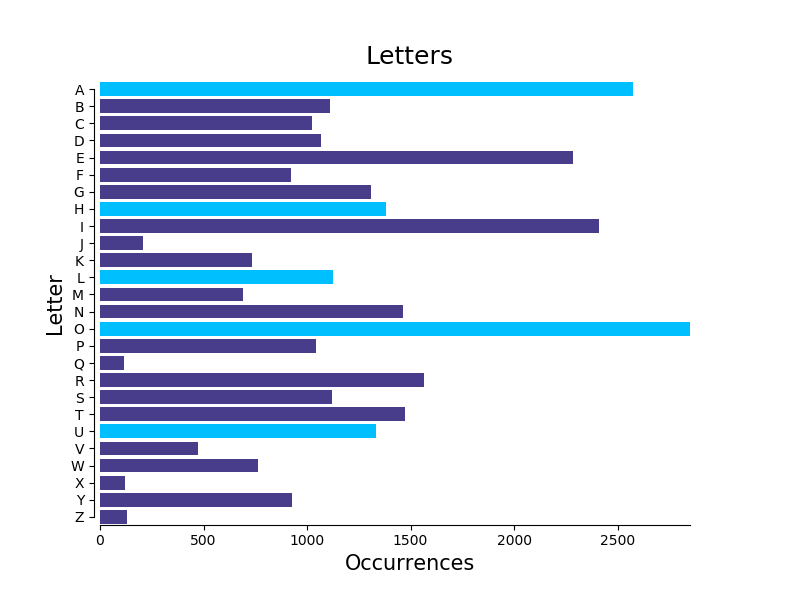
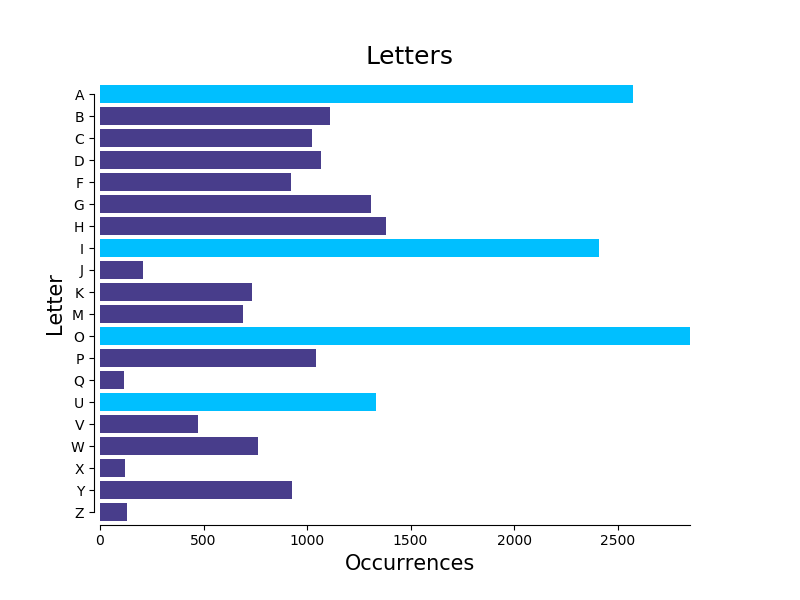
removed white spaces in graph file names and fixed coloring on Letters graph

Changed region(s): [[0.0938, 0.12, 0.875, 0.9]]

diff --git a/analysis.py b/analysis.py
@@ -3,6 +3,7 @@
 # TODO write functions to print categories and letters
 # TODO organize code
 # TODO comment
+# TODO remove spaces from image names
 
 
 import pandas
@@ -24,7 +25,7 @@ def guessed_letter_occurrence():
 
 def print_overall_letter_occurrence():
   puzzles = df['Puzzle']
-  alphabet = ['A', 'B', 'C', 'D', 'E', 'F', 'G', 'H', 'I', 'J', 'K', 'L', 'M', 'N', 'O', 'P', 'Q', 'R', 'S', 'T', 'U', 'V', 'W', 'X', 'Y', 'Z']
+  alphabet = ['A', 'B', 'C', 'D', 'F', 'G', 'H', 'I', 'J', 'K', 'M', 'O', 'P', 'Q', 'U', 'V', 'W', 'X', 'Y', 'Z']
   count_list = []
 
   for letter in alphabet:
@@ -35,13 +36,12 @@ def print_overall_letter_occurrence():
 def print_barh_graph(keys,values,savename="image.png",most_frequent_l=[]):
   # set the colors of the bars
   # vowels are colored lighter if it is a category graph
-  if len(most_frequent_l)>0:
-    light_blue = '#00BFFF' 
-    bar_colors = ['#483D8B']*20
-    bar_colors[0] = light_blue
-    bar_colors[7] = light_blue
-    bar_colors[11] = light_blue
-    bar_colors[14] = light_blue
+  bar_colors = ['#483D8B']*20
+  light_blue = '#00BFFF' 
+  bar_colors[0] = light_blue
+  bar_colors[7] = light_blue
+  bar_colors[11] = light_blue
+  bar_colors[14] = light_blue
 
   # instantiate figure and axes
   # also set figure size
@@ -144,9 +144,13 @@ def print_letter_occurrence_per_puzzle():
     count_list.sort()
     keys = [i[0] for i in count_list]
     values = [i[1] for i in count_list]
+
+    # remove spaces from save name
+    category = category.replace(' ', '_')
+
     print_barh_graph(keys,values,savename=category,most_frequent_l=most_frequent_l)
 
-#print_overall_letter_occurrence()
+print_overall_letter_occurrence()
 #print_category_occurrence()
-#print_letter_occurrence_per_puzzle()
-category_occurrence()
+print_letter_occurrence_per_puzzle()
+#category_occurrence()
